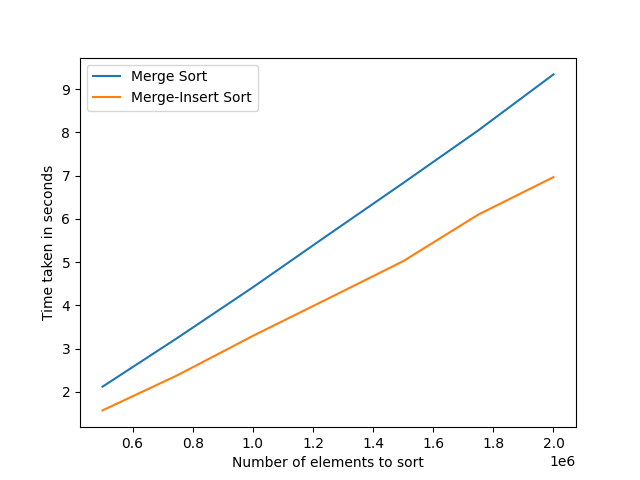
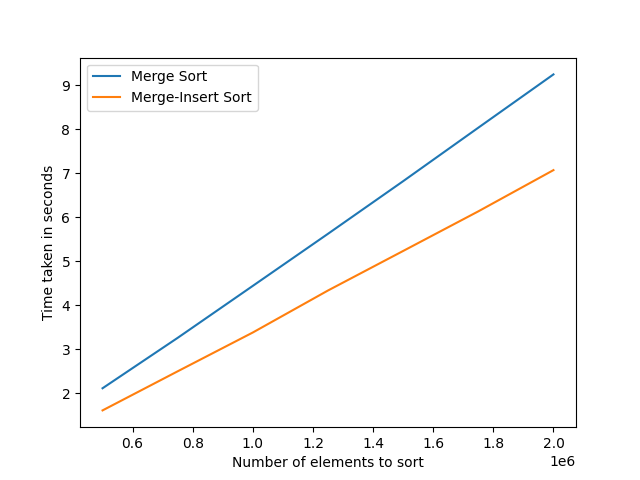
Updated Insertion Sort. Merge-Insert and Quick-Insert outputs.

diff --git a/quick_insert_sort.py b/quick_insert_sort.py
@@ -1,29 +1,8 @@
-import math
-
+from insertion_sort import insertion_sort
 from util import generate_random_array
 from time import monotonic
 import uuid
 import sys
-
-
-def insertion_sort(array):
-    """
-
-    :param array:
-    :return:
-    """
-    try:
-        # print("IS method used")
-        if len(array) > 1:
-            for i in range(1, len(array)):
-                if array[i] >= array[i - 1]:
-                    continue
-                for j in range(i):
-                    if array[i] < array[j]:
-                        array[j], array[j + 1:i + 1] = array[i], array[j:i]
-                        break
-    except Exception as e:
-        print("Error in insertion sort part : ",e)
 
 
 def partition(array, low, high):
@@ -67,10 +46,9 @@ def quick_insert_sort(array, low, high, pivot_count):
     try:
         if low < high:
             pivot_count += 1
-            # print("The Pivot Count : ", pivot_count)
-            if pivot_count >= 0.012 * array.size:
-                # print("The Pivot Count : ", pivot_count)
-                insertion_sort(array)
+            if pivot_count >= 0.0122 * array.size:
+                # print("PC : ",pivot_count)
+                insertion_sort(array[low:high+1])
             else:
                 pivot = partition(array, low, high)
                 pivot_count += 1
@@ -89,8 +67,8 @@ if __name__ == "__main__":
         run_metrics = list(run_metrics)
         run_metrics.append(str(uuid.uuid4()))
         run_metrics.append(it)
-        array_size = 10
-        while array_size <= 2000:
+        array_size = 50000
+        while array_size <= 200000:
             randomized_array = generate_random_array(array_size)
             input_write_path = './io/quick_insert_sort/'+(str(array_size)+"_input_"+str(it)+".txt")
             with open(input_write_path,'w') as f:

diff --git a/quick_vs_quick_insert.py b/quick_vs_quick_insert.py
@@ -13,8 +13,8 @@ if __name__ == '__main__':
     quick_insert_sort_result = {}
     for run_it in range(25):
         print("Iteration : ", run_it)
-        array_size = 50000
-        while array_size <= 200000:
+        array_size = 100000
+        while array_size <= 300000:
             randomized_array = generate_random_array(array_size)
 
             run_id = str(uuid.uuid4()).split()[0]
@@ -26,7 +26,7 @@ if __name__ == '__main__':
             quick_sort_time = end - start
             quick_sort_time_array.append(quick_sort_time)
             mean_quick_sort_time = sum(quick_sort_time_array) / len(quick_sort_time_array)
-            print("QS time : ", mean_quick_sort_time)
+            # print("QS time : ", mean_quick_sort_time)
 
             if array_size not in quick_sort_result.keys():
                 quick_sort_result[array_size] = mean_quick_sort_time
@@ -35,12 +35,12 @@ if __name__ == '__main__':
 
             quick_insert_sort_time_array = []
             start = monotonic()
-            quick_insert_sort(randomized_array, 0, randomized_array.size-1, 0)
+            quick_insert_sort(randomized_array, 0, randomized_array.size-1, 1)
             end = monotonic()
             quick_insert_sort_time = end - start
             quick_insert_sort_time_array.append(quick_insert_sort_time)
             mean_quick_insert_sort_time = sum(quick_insert_sort_time_array) / len(quick_insert_sort_time_array)
-            print("QIS time : ", mean_quick_insert_sort_time)
+            # print("QIS time : ", mean_quick_insert_sort_time)
 
             if array_size not in quick_insert_sort_result.keys():
                 quick_insert_sort_result[array_size] = mean_quick_insert_sort_time

diff --git a/insertion_sort.py b/insertion_sort.py
@@ -12,17 +12,15 @@ def insertion_sort(array):
 
     try:
         if len(array) > 1:
-            for i in range(1, array.size):
-                if array[i] > array[i-1]:
+            for i in range(1, len(array)):
+                if array[i] >= array[i - 1]:
                     continue
-                else:
-                    j = i-1
-                    while array[i] < array[j] and j >= 0:
-                        j -= 1
-                    j += 1
-                    temp = array[i]
-                    array[j+1:i+1] = array[j:i]
-                    array[j] = temp
+                for j in range(i):
+                    if array[i] < array[j]:
+                        temp = array[i]
+                        array[j + 1:i + 1] = array[j:i]
+                        array[j] = temp
+                        break
     except Exception as e:
         print("Error in insertion sort function call : \n", e)
         return []
@@ -35,7 +33,7 @@ if __name__ == "__main__":
         run_metrics = list(run_metrics)
         run_metrics.append(str(uuid.uuid4()))
         run_metrics.append(it)
-        array_size = 8
+        array_size = 5
         while array_size <= 20:
             randomized_array = generate_random_array(array_size)
 

diff --git a/merge_insert_sort.py b/merge_insert_sort.py
@@ -15,7 +15,7 @@ def merge_insert(array, low, mid, high):
     :return:
     """
     try:
-        if array[low:high+1].size > 10:
+        if array[low:high+1].size > 15:
             i = low
             j = mid + 1
             aux = []
@@ -73,8 +73,8 @@ if __name__ == "__main__":
         run_metrics = list(run_metrics)
         run_metrics.append(str(uuid.uuid4()))
         run_metrics.append(it)
-        array_size = 500000
-        while array_size <= 2000000:
+        array_size = 5
+        while array_size <= 200:
             randomized_array = generate_random_array(array_size)
             input_write_path = './io/merge_insert_sort/'+(str(array_size)+"_input_"+str(it)+".txt")
             with open(input_write_path,'w') as f:

diff --git a/insertion_vs_quick.py b/insertion_vs_quick.py
@@ -100,14 +100,14 @@ if __name__ == '__main__':
     threshold_distribution = []
     for it in range(100):
         print("Iteration : ",it)
-        start_size = 50000
+        start_size = 2500
         threshold_point = {}
         while start_size >= 2:
             threshold_point[start_size] = 0
             randomized_array = generate_random_array(start_size)
             check_nearly_sorted(randomized_array)
             quick_sort(randomized_array, 0, randomized_array.size-1, 0, threshold_point)
-            start_size -= 10000
+            start_size -= 10
 
         threshold_list = [v for k, v in threshold_point.items()]
         l = np.array(threshold_list)

diff --git a/merge_sort.py b/merge_sort.py
@@ -70,7 +70,7 @@ if __name__ == "__main__":
         run_metrics = list(run_metrics)
         run_metrics.append(str(uuid.uuid4()))
         run_metrics.append(it)
-        array_size = 8
+        array_size = 15
         while array_size <= 200:
             randomized_array = generate_random_array(array_size)
             input_write_path = './io/merge_sort/'+(str(array_size)+"_input_"+str(it)+".txt")
